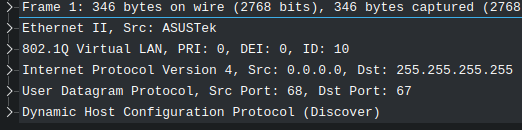
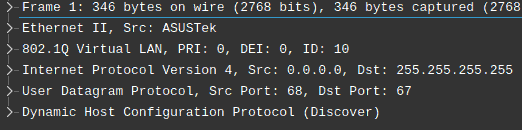
Using indexed colors for images

diff --git a/index.html b/index.html
@@ -149,11 +149,13 @@
             </p>
             <div class="diff">
                 <div class="column">
-                    <img src="2025-06-10/dhcp-asus-dump.png">
+                    <img src="2025-06-10/dhcp-asus-dump.png" width="522px" height="130px"
+                        alt="Wireshark output dump, working DHCP request">
                     <div class="label">Working DHCP request</div>
                 </div>
                 <div class="column">
-                    <img src="2025-06-10/dhcp-banana-dump.png">
+                    <img src="2025-06-10/dhcp-banana-dump.png" width="522px" height="130px"
+                        alt="Wireshark output dump, DHCP request that was ignored by provider">
                     <div class="label">Ignored DHCP request</div>
                 </div>
             </div>
